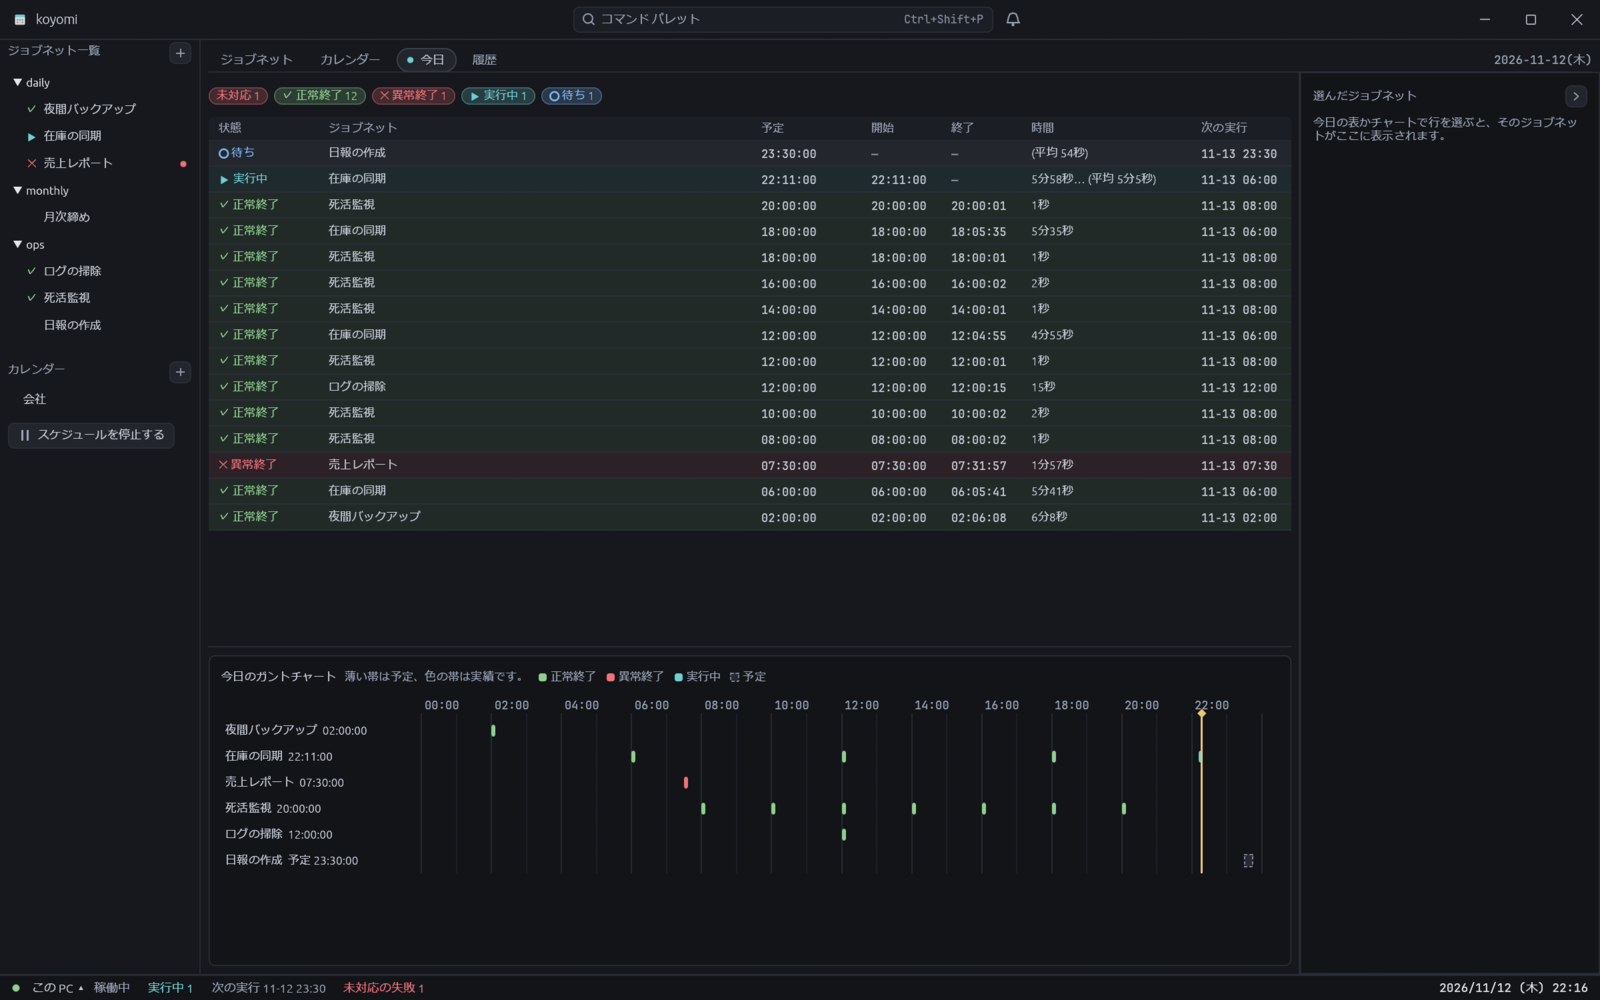
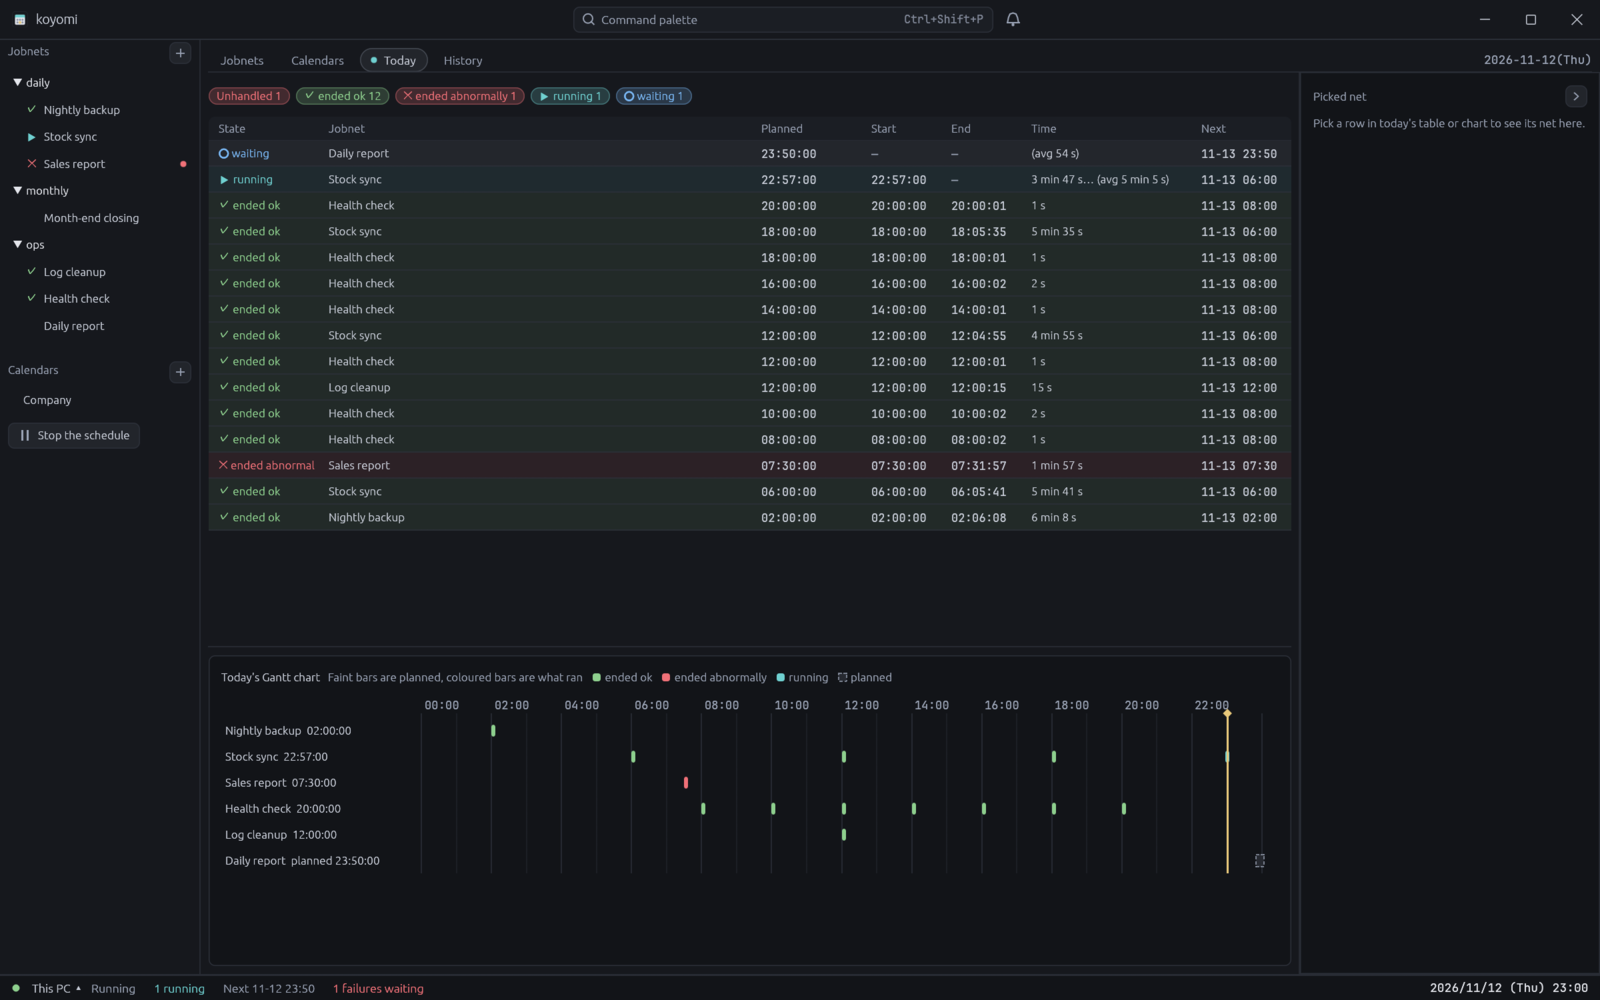
Docs: retake the README images in the English window, with editing
Today, History, the banner shot and the GIF now show the English
window, with the demo job nets named in English. A new still and two
new GIF frames show the edit screen and a job added after the monthly
report (not saved). The GIF's captions are English (Segoe UI Bold).
The social preview is re-rendered from the new banner shot.

diff --git a/docs/banner.html b/docs/banner.html
@@ -21,8 +21,8 @@
   What to keep true when changing it:
 
   - **The window is a real screenshot** (docs/images/banner-shot.png), taken
-    from a release build at 1600x1000 with the default theme: the 今日 tab,
-    with today's runs, a failed one and the gantt chart. docs/images/README.md
+    from a release build at 1600x1000 with the default theme and the English
+    window: the Today tab, with today's runs, a failed one and the gantt chart. docs/images/README.md
     says how it was shot. Retake it when the window changes enough that the
     banner no longer looks like the program.
   - **The colours are the icon's** (crates/koyomi/src/icon.rs): the rim for the

diff --git a/docs/images/README.md b/docs/images/README.md
@@ -1,24 +1,30 @@
 # README の画像の置き場
 
 README の「What it looks like」と、紹介画像（GitHub の Social preview）の右に入れる実画面の置き場。
-どれも 0.37.0 のビルドを既定のテーマで撮った。持ち主の設定と状態は使わず、撮るためだけに作った箱
-（設定・状態・名前付きパイプ・通知の出し先が、すべてその箱だけのもの）のエンジンに、
-デモのジョブネット 7 本（夜間バックアップ・売上レポート・在庫の同期・死活監視・ログの掃除・日報の作成・月次締め）と、
-3 日分の履歴とログを読ませてつないだ。今日の売上レポートは、集計のジョブが終了コード 2 で失敗している。
+どれも 0.37.0 のビルドを既定のテーマ・英語の画面（箱の `common.toml` に `language = "en"`）で撮った。
+持ち主の設定と状態は使わず、撮るためだけに作った箱（設定・状態・名前付きパイプ・通知の出し先が、すべてその箱だけのもの）のエンジンに、
+デモのジョブネット 7 本（Nightly backup・Sales report・Stock sync・Health check・Log cleanup・Daily report・Month-end closing）と、
+カレンダー Company（日本の祝日と土日が休み）、3 日分の履歴とログを読ませてつないだ。
+今日の Sales report は、集計のジョブ（aggregate）が終了コード 2 で失敗している。
 
 | ファイル | 何を写すか | 撮り方 |
 | --- | --- | --- |
-| `today.png` | 今日。失敗した売上レポートの行を選んだところ。今日の実行と予定の表、ガントチャート、右に選んだジョブネットの次の予定と構成 | `scripts/keys.ps1` で窓を `<Size:1600x1000>` にして `<Shot:…>` で撮り（150 % なので 2400x1500）、1600x1000 に縮める |
-| `history.png` | 履歴。失敗した売上レポートの実行を選んだところ。ジョブの流れ・状態・終了コードと、失敗したジョブのログ | today.png と同じ |
-| `koyomi.gif` | 今日 → 失敗した実行を選ぶ → 月次締めのジョブネットの流れ → 会社のカレンダー → 履歴で失敗したジョブのログ → 対応済みにする。操作を右下に字幕で出す | 各画面を today.png と同じく撮り、1200x750 に縮めて字幕を重ね、ffmpeg で 1 枚 2.5〜3 秒・10 fps・128 色の GIF にする（約 15 秒、くり返す） |
-| `banner-shot.png` | `docs/banner.html` の右の実画面。今日（行を選ばない） | today.png と同じ |
+| `today.png` | Today。失敗した Sales report の行を選んだところ。今日の実行と予定の表、ガントチャート、右に選んだジョブネットの次の予定と構成 | `scripts/keys.ps1` で窓を `<Size:1600x1000>` にして `<Shot:…>` で撮り（150 % なので 2400x1500）、1600x1000 に縮める |
+| `history.png` | History。失敗した Sales report の実行を選んだところ。ジョブの流れ・状態・終了コードと、失敗したジョブのログ | today.png と同じ |
+| `edit.png` | Month-end closing の編集の画面。Monthly report の後ろにジョブを 1 つ足し、id・名前・コマンドを入れたところ（保存しない） | today.png と同じ。足すのは Parts の Job、入れるのは `<Paste:…>`（コマンドは 1 行に 1 つ） |
+| `koyomi.gif` | Today → 失敗した実行を選ぶ → Month-end closing の流れ → 編集の画面 → ジョブを足す → Company のカレンダー → History で失敗したジョブのログ → 対応済みにする（Mark as dealt with）。操作を右下に英語の字幕で出す | 各画面を today.png と同じく撮り、1200x750 に縮めて字幕（Segoe UI Bold、`C:/Windows/Fonts/segoeuib.ttf`）を重ね、ffmpeg で 1 枚 2.5〜3 秒・10 fps・128 色の GIF にする（8 枚で約 21 秒、くり返す） |
+| `banner-shot.png` | `docs/banner.html` の右の実画面。Today（行を選ばない） | today.png と同じ |
 
 撮るときの注意:
 
 - **持ち主の設定と状態を使わない。**`KOYOMI_CONFIG_HOME`・`KOYOMI_STATE_HOME`・`UCHMK_CONFIG_DIR` を箱の中に向け、
   `KOYOMI_ADDRESS` を箱だけの名前付きパイプにし、通知は `ITO_NOTIFY_SINK` でファイルに出す。持ち主のエンジンとサービスには触らない。
-- デモのジョブネットのコマンド（`D:\ops\…`）は架空のもの。今日の予定の残り（23:30 の日報の作成）が来る前に、箱のエンジンを止める。
-- **全部のコマを見て、利用者の名前・ホストの名前・IP アドレス・token が写っていないことを確かめる。**接続先は「この PC」だけにする。
+- デモのジョブネットのコマンド（`D:\ops\…`）は架空のもの。今日の予定の残り（23:50 の Daily report）が来る前に、箱のエンジンを止める。
+- **全部のコマを見て、利用者の名前・ホストの名前・IP アドレス・token が写っていないことを確かめる。**接続先は「This PC」だけにする。
 - クリックのあとは、タイトルバーの空いたところを指す（`<Hover:0.3,0.015>`）。指したままだとツールチップや行の色が写る。
+- 編集の画面では上のタブが隠れる。続けてほかのタブを撮るときは、右上の Close で戻ってから押す（そのまま押すと Parts の部品が足される）。
+  編集は保存しない（定義を変えない）。
+- History の行の位置は、実行中の実行（いちばん上に出る）があるかで 1 行ずれる。実行中の行が出てから撮る。
+- 対応済みにすると箱の状態が変わる（「failures waiting」が消える）ので、最後に撮る。
 - 紹介画像は `docs/social-preview.png`（元は `docs/banner.html`。描き直し方は HTML の冒頭）。
   GitHub に API が無いので、Settings > General > Social preview から手で上げる。

diff --git a/README.md b/README.md
@@ -13,9 +13,11 @@ When koyomi shows an error or a warning, search [こんな時はどうする](do
 
 ![The Today tab: today's runs and the ones still to come (ended, running, waiting, and the sales report that failed), the gantt chart below them, and on the right the selected job net's next runs and its jobs](docs/images/today.png)
 
-![Going round the window: picking the failed run in today's table, the flow of the month-end closing job net, the working days and holidays of the company calendar, the failed job's log in History, and marking the failure as handled](docs/images/koyomi.gif)
+![Going round the window: picking the failed run in today's table, the flow of the month-end closing job net, editing it and adding a job after its monthly report, the working days and days off of the company calendar, the failed job's log in History, and marking the failure as dealt with](docs/images/koyomi.gif)
 
 ![The History tab: the runs of the past 7 days, and for the selected failed run the flow of its jobs, their states and exit codes, and the failed job's log](docs/images/history.png)
+
+![Editing the month-end closing job net: the parts to add on the left, the flow in the middle with a new job after the monthly report, and on the right that job's id, name and command, one argument per line](docs/images/edit.png)
 
 How the images were taken is in [docs/images/README.md](docs/images/README.md) (in Japanese).
 
